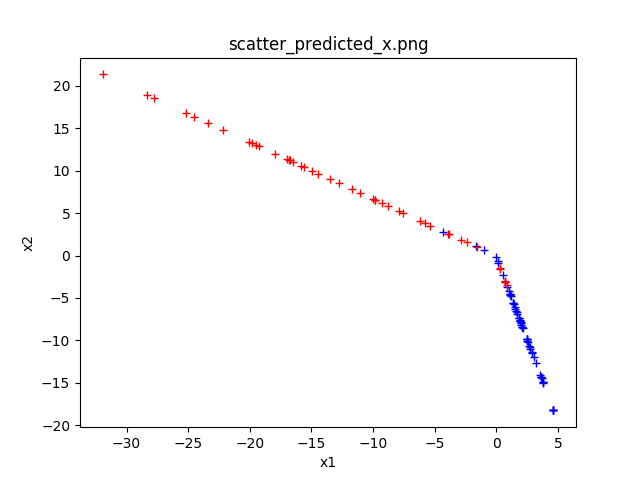
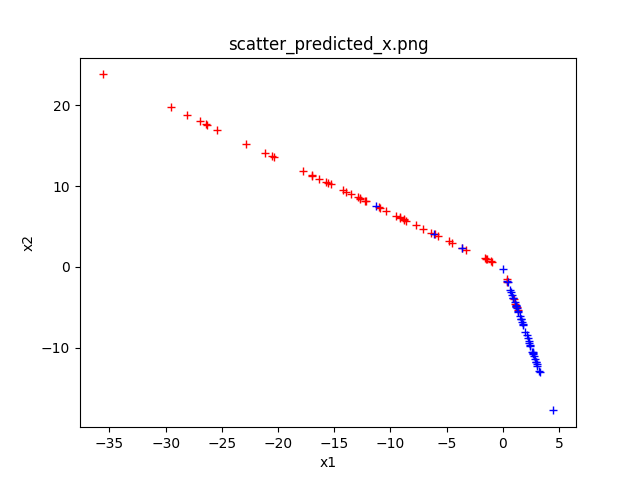
Add new functions, cleaning up

diff --git a/utils.py b/utils.py
@@ -27,6 +27,22 @@ def plot_z_means(sess, X, Y, model, k, n_z):
     labels = np.argmax(Y, axis=1)
     plot_labeled_data(zm, labels, 'scatter_predicted_zm.png')
 
+def plot_z(sess, X, Y, model, k, n_z):
+    '''
+        Given examples data, computes and plots their latent variables
+    '''
+    all_z = np.zeros((len(X), k, n_z))
+    for i in range(k):
+        all_z[:, i] = sess.run(model.z[i],
+                                feed_dict={'x:0': X})
+
+    qy = sess.run(model.qy, feed_dict={'x:0': X})
+    y_pred = one_hot(qy.argmax(axis=1), depth=k).astype(bool)
+
+    z = all_z[y_pred]
+    labels = np.argmax(Y, axis=1)
+    plot_labeled_data(z, labels, 'scatter_predicted_z.png')
+
 def plot_gmvae_output(sess, X, Y, model, k):
     '''
         Given examples data, computes and plots the output of the examples

diff --git a/gmvae_k.py b/gmvae_k.py
@@ -30,9 +30,15 @@ def main():
         # TRAINING
         sess_info = (sess, saver)
         #model.train('logs/gmvae_k={:d}.log'.format(k), dataset, sess_info, epochs=50)
-        
+
         # SCATTER PLOT
         plot_z_means(sess,
+                     dataset.test.data,
+                     dataset.test.labels,
+                     model,
+                     k,
+                     n_z)
+        plot_z(sess,
                      dataset.test.data,
                      dataset.test.labels,
                      model,
